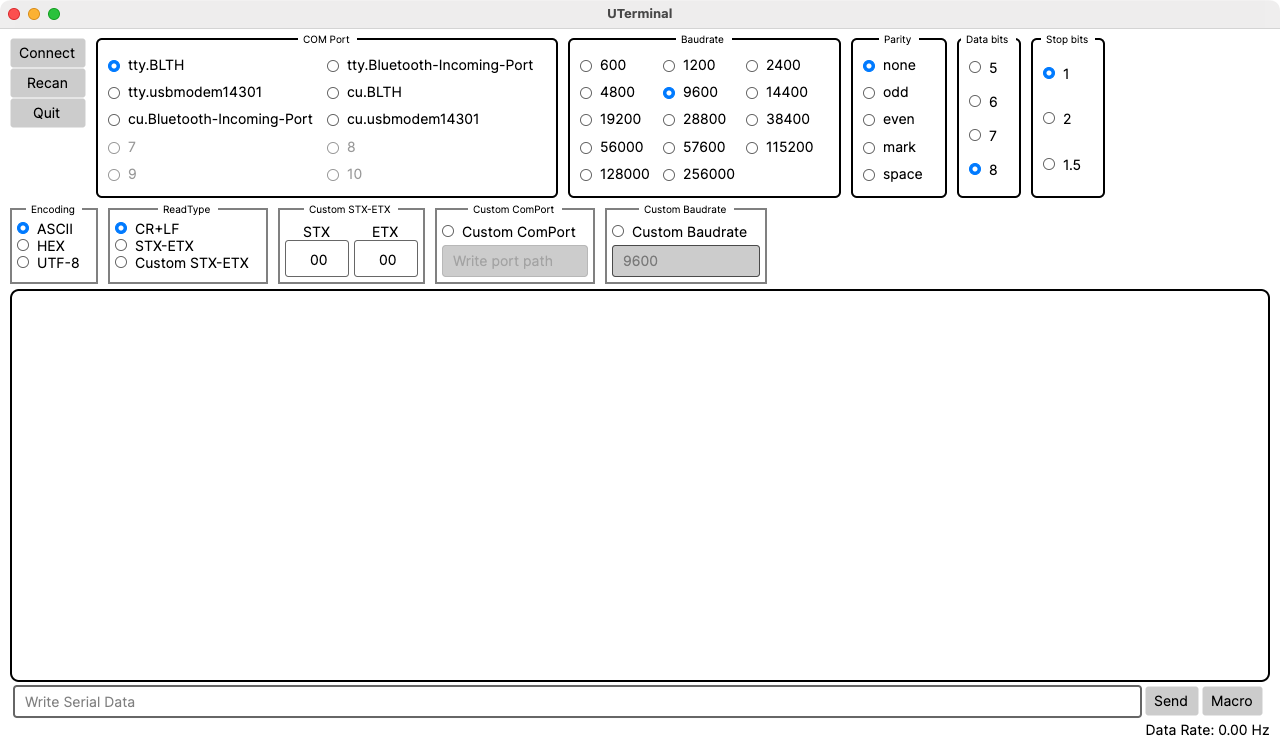
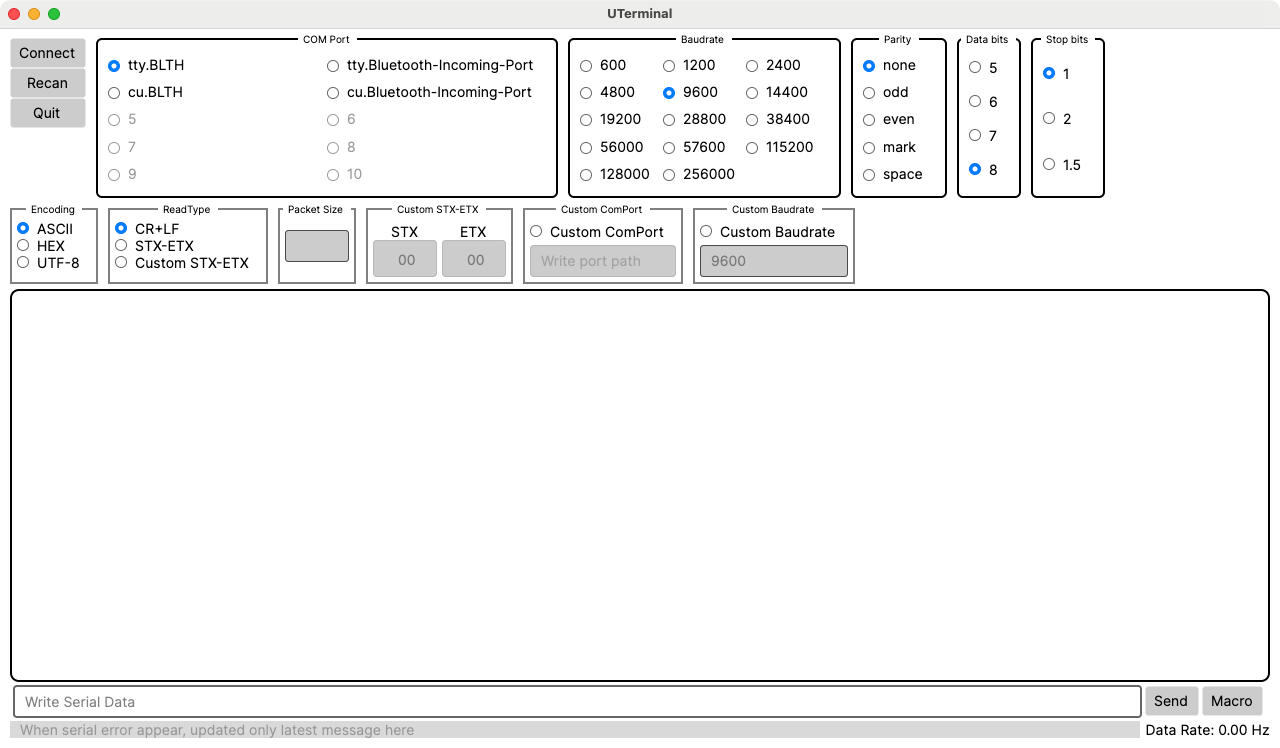
docs: Add packet size explain and replace image

diff --git a/README.md b/README.md
@@ -16,6 +16,8 @@ Through UTerminal, users can select encoding types such as ASCII, HEX, and UTF-8
 - Connect serial port
 - ASCII, HEX, UTF-8 Encoding Types
 - CR+LF, STX-ETX, Custom STX-ETX Read Type
+  - Parse with packet size.
+  - If packet size set to 0 or empty, parse and return packet data when ETX is detected
 - Custom ComPort Path, Custom Baudrate
 - Macros for fast transfers
 
